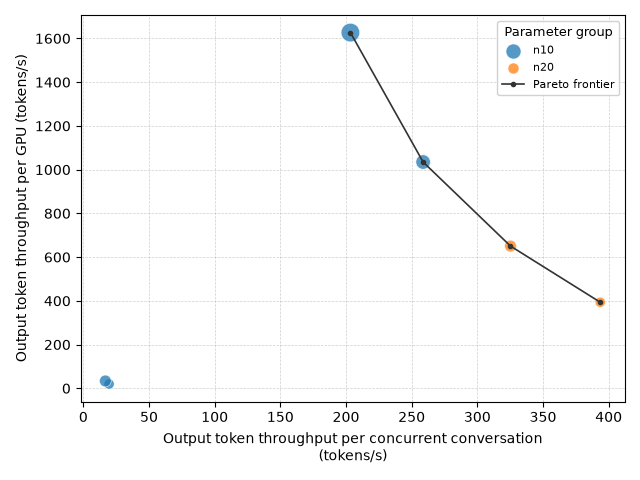
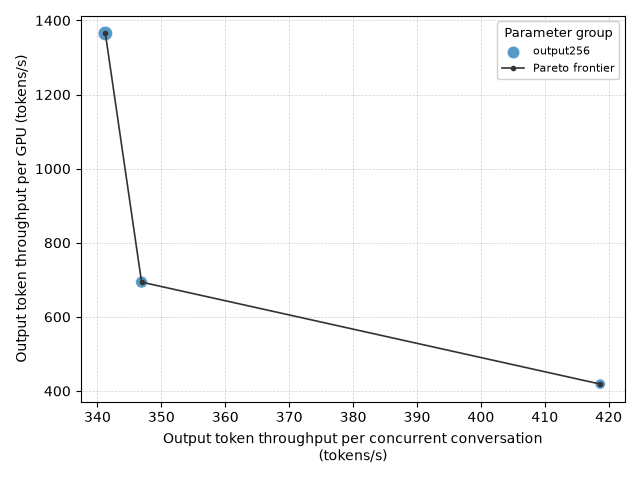
docs(bench): replace short sweep with sustained measured runs

diff --git a/benchmarks/docs/coomon_commands/sweep.md b/benchmarks/docs/coomon_commands/sweep.md
@@ -2,12 +2,25 @@
 
 English | [简体中文](sweep_zh.md) · [Common commands](../examples.md)
 
-After [setup](../examples.md#setup), run the maintained parameter file against one Kustomize deployment:
+After [setup](../examples.md#setup), deploy the service and warm it up before comparing concurrency levels:
+
+```bash
+foretoken deploy examples/quickstart --timeout 20m
+for parallel in 1 2 4; do
+  foretoken bench examples/quickstart \
+    --dataset random --tokenizer-path Qwen/Qwen3-0.6B \
+    --min-prompt-length 128 --max-prompt-length 256 --random-seed 0 \
+    --min-output-length 256 --max-output-length 256 \
+    --parallel "$parallel" --number 16 --output local
+done
+```
+
+Run the sweep with the same inputs. The parameter file compares concurrency 1, 2, and 4, with 384 requests per point and 256 output tokens per request:
 
 ```bash
 foretoken bench examples/quickstart \
   --dataset random --tokenizer-path Qwen/Qwen3-0.6B \
-  --min-prompt-length 32 --max-prompt-length 64 \
+  --min-prompt-length 128 --max-prompt-length 256 --random-seed 0 \
   --sweep benchmarks/examples/sweep.jsonl \
   --experiment-name quickstart-sweep \
   --output local,wandb
@@ -19,10 +32,16 @@ Each row may change load, generation, or dataset settings, including output-leng
 
 Each point has a result directory. `sweep_points.json` records all results, and `pareto/PARETO.png` compares output token throughput per configured user with throughput per GPU when enough points are available. Choose a fresh `--experiment-name` for another experiment, or omit it to use an automatically created directory.
 
+Delete the service after finishing with `foretoken delete examples/quickstart`.
+
 ## Example output
+
+These results use Qwen3-0.6B on one A100 80GB PCIe GPU. The concurrency-1 run retained one failed request (383/384 successful); the other two completed 384/384.
 
 ![Recorded sweep output](../imgs/sweep-cli.png)
 
-![Sweep tasks compared over elapsed time](../imgs/sweep-wandb.png)
+The W&B chart shows E2EL p95 for requests completed in each one-second window. Use the aggregate results and Pareto plot to compare whole-run throughput.
+
+![E2EL p95 over elapsed time, in one-second completion windows](../imgs/sweep-wandb.png)
 
 ![Measured Pareto frontier](../imgs/sweep-pareto.png)

diff --git a/benchmarks/docs/coomon_commands/sweep_zh.md b/benchmarks/docs/coomon_commands/sweep_zh.md
@@ -2,12 +2,25 @@
 
 [English](sweep.md) | 简体中文 · [常用命令](../examples_zh.md)
 
-完成[准备步骤](../examples_zh.md#准备)后，在同一 Kustomize 部署上运行维护的参数文件：
+完成[准备步骤](../examples_zh.md#准备)后，先部署服务并预热，再比较不同并发：
+
+```bash
+foretoken deploy examples/quickstart --timeout 20m
+for parallel in 1 2 4; do
+  foretoken bench examples/quickstart \
+    --dataset random --tokenizer-path Qwen/Qwen3-0.6B \
+    --min-prompt-length 128 --max-prompt-length 256 --random-seed 0 \
+    --min-output-length 256 --max-output-length 256 \
+    --parallel "$parallel" --number 16 --output local
+done
+```
+
+使用相同输入运行扫描。参数文件比较并发 1、2、4，每组 384 个请求，每个请求输出 256 token：
 
 ```bash
 foretoken bench examples/quickstart \
   --dataset random --tokenizer-path Qwen/Qwen3-0.6B \
-  --min-prompt-length 32 --max-prompt-length 64 \
+  --min-prompt-length 128 --max-prompt-length 256 --random-seed 0 \
   --sweep benchmarks/examples/sweep.jsonl \
   --experiment-name quickstart-sweep \
   --output local,wandb
@@ -19,10 +32,16 @@ foretoken bench examples/quickstart \
 
 每个参数点都有结果目录。`sweep_points.json` 保存全部结果；有效点足够时，`pareto/PARETO.png` 比较每个配置用户与每张 GPU 的输出 token 吞吐量。再次实验时选择新的 `--experiment-name`，或省略它使用自动创建的目录。
 
+使用完后，执行 `foretoken delete examples/quickstart` 删除服务。
+
 ## 输出示例
+
+以下结果来自单张 A100 80GB PCIe 上的 Qwen3-0.6B。并发 1 的运行保留了一条失败请求（383/384 成功），其余两组均为 384/384 成功。
 
 ![扫描命令的实际输出](../imgs/sweep-cli.png)
 
-![各扫描任务的时间曲线对比](../imgs/sweep-wandb.png)
+W&B 曲线展示每个一秒窗口内完成请求的 E2EL p95；整组吞吐量使用汇总结果和帕累托图比较。
+
+![按一秒完成窗口统计的 E2EL p95 时间曲线](../imgs/sweep-wandb.png)
 
 ![实测帕累托前沿](../imgs/sweep-pareto.png)
